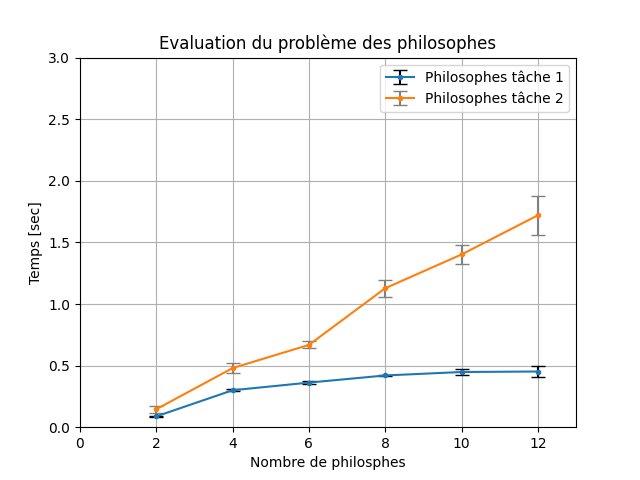
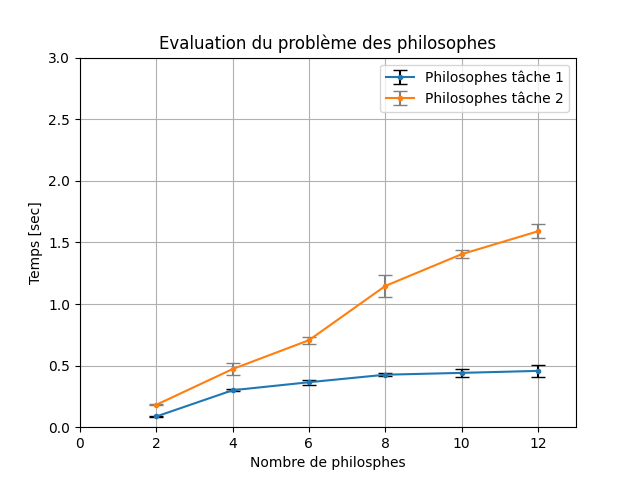
fignolage et todolist

diff --git a/task2/philo.c b/task2/philo.c
@@ -44,14 +44,14 @@ void *philosophe(void *arg){
 }
 
 /**
- * arg1 : nb de philosophes (min 2)
+ * @argv[1] : nb de philosophes (min 2)
  */
 int main(int argc, char *argv[]){
-  int philNum = atoi(argv[1]);
   if(argc != 2){
     fprintf(stderr, "error : wrong number of args\n");
     return(EXIT_FAILURE);
   }
+  int philNum = atoi(argv[1]);
   if(philNum < 2){
     fprintf(stderr, "error : not enough philosophes\n");
     return(EXIT_FAILURE);

diff --git a/task1/task1_2.c b/task1/task1_2.c
@@ -7,7 +7,7 @@
 #include <string.h>
 #include <semaphore.h>
 #include <time.h>
-
+#include <limits.h>
 
 // Initialisation
 #define N 8 // places dans le buffer
@@ -30,8 +30,8 @@ void error(int err, char *msg){
 }
 
 int produce(){
-  for(int i=0;rand() > RAND_MAX/10000;i++); //random time de production
-  return i;
+  while(rand() > RAND_MAX/10000); //random time de production
+  return INT_MIN+rand()+rand()+1;
 }
 
 int consume(int item){

diff --git a/task1/task1_1.c b/task1/task1_1.c
@@ -49,11 +49,11 @@ void *philosophe(void *arg){
  * @argv[1] : nb de philosophes (min 2)
  */
 int main(int argc, char *argv[]){
-  int philNum = atoi(argv[1]);
   if(argc != 2){
     fprintf(stderr, "error : wrong number of args\n");
     return(EXIT_FAILURE);
   }
+  int philNum = atoi(argv[1]);
   if(philNum < 2){
     fprintf(stderr, "error : not enough philosophes\n");
     return(EXIT_FAILURE);

diff --git a/task1/test.c b/task1/test.c
@@ -1,0 +1,16 @@
+#include <pthread.h>
+#include <stdio.h>
+#include <stdlib.h>
+#include <stdbool.h>
+#include <unistd.h>
+#include <errno.h>
+#include <string.h>
+#include <semaphore.h>
+#include <time.h>
+#include <limits.h>
+int main(int argc, char *argv[]){
+  srand(time(NULL));
+  printf("%d\n", INT_MAX);
+  printf("%d\n", INT_MIN+2*rand()+1);
+  return EXIT_SUCCESS;
+}

diff --git a/task2/prodcons.c b/task2/prodcons.c
@@ -31,9 +31,8 @@ void error(int err, char *msg){
 }
 
 int produce(){
-  int i=0;
-  for(i=0;rand() > RAND_MAX/10000;i++); //random time de production
-  return i;
+  while(rand() > RAND_MAX/10000); //random time de production
+  return INT_MIN+rand()+rand()+1;
 }
 
 int consume(int item){
